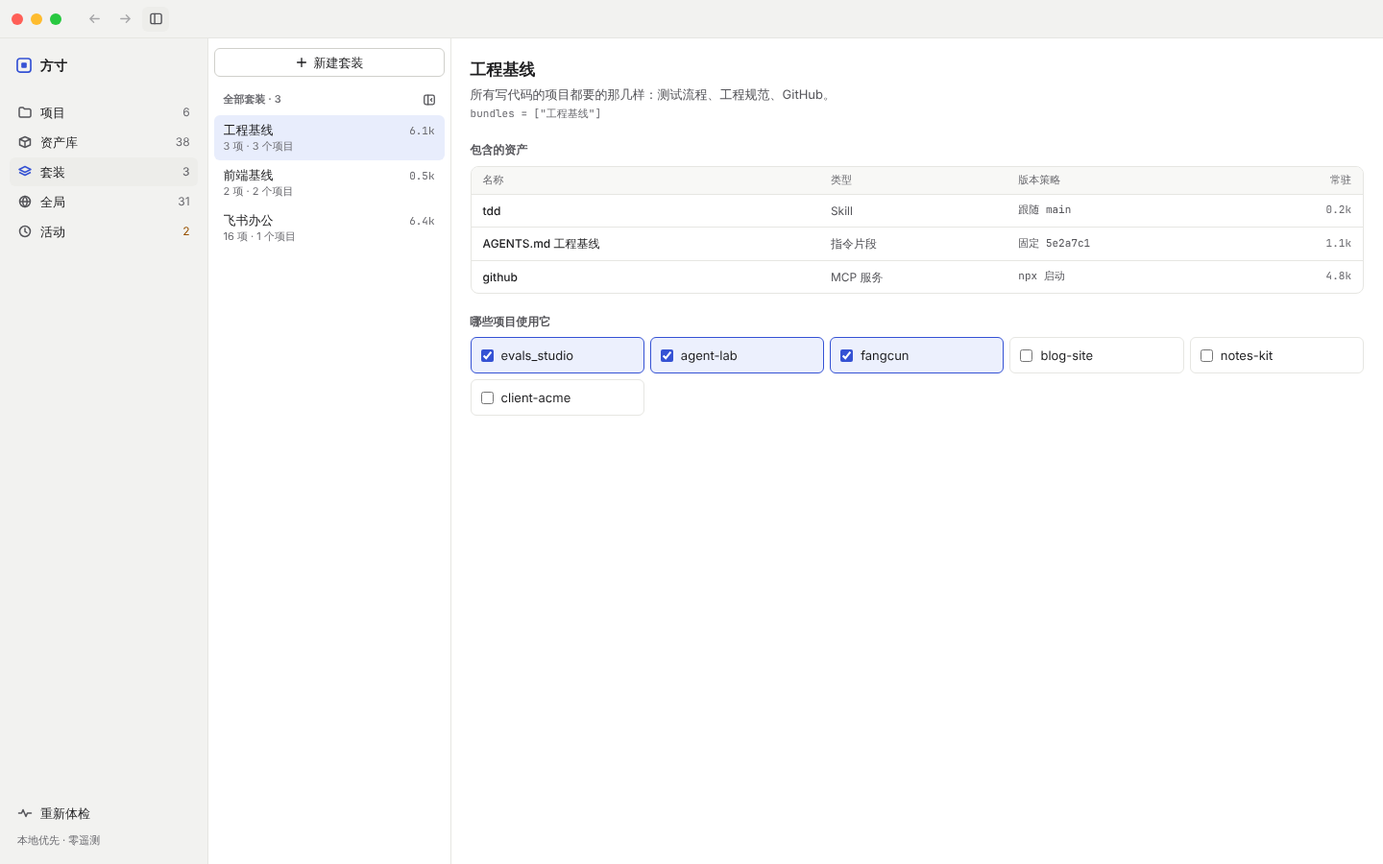
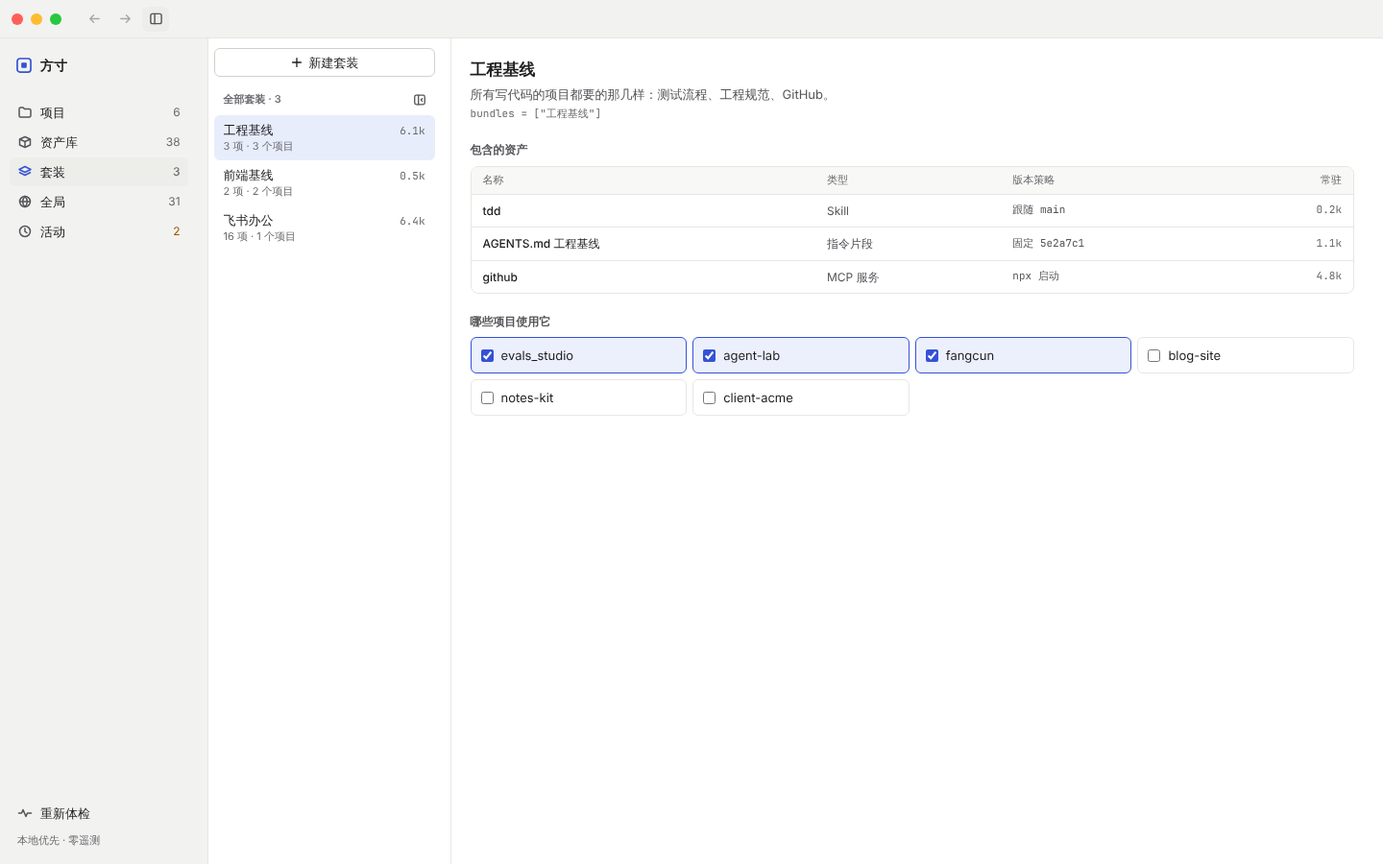
Check every prototype board against section 6 and fix five gaps
Library and Bundles use the shared window shell; the checkup report pauses on
a handled finding before moving on; the activity type column no longer wraps;
the sidebar gets a recent-projects group; 6.7's wireframe uses the same-name
conflict wording. Synced canvas version 1794656963-e22c.

Claude-Session: https://claude.ai/code/session_01CLs9FXfYx86LG6Jt3JnKaR

diff --git a/prototype/project/Bundles.dc.html b/prototype/project/Bundles.dc.html
@@ -28,9 +28,12 @@ body{margin:0}
 .fc-navc .fc-navbtn{margin-left:0}
 .fc-navc a span,.fc-navc>div>div>span{position:absolute;width:1px;height:1px;overflow:hidden;clip:rect(0 0 0 0);white-space:nowrap}
 .fc-navc .fc-navhide{display:none!important}
+.fc-shell{height:100vh;min-height:640px;overflow:hidden}
+.fc-col{overflow-y:auto;min-height:0;overscroll-behavior:contain;scrollbar-width:thin;scrollbar-color:var(--line-strong) transparent;scrollbar-gutter:stable}
+@media (max-width: 900px){.fc-shell{height:auto;overflow:visible;flex-wrap:wrap!important}.fc-split{flex-wrap:wrap!important}.fc-col{overflow:visible}}
 </style>
 </helmet>
-<div class="{{rootClass}}" style="min-height: 900px; display: flex; flex-direction: column; background: var(--bg); color: var(--tx-1); font-family: var(--font); font-size: 13px; line-height: 1.45; -webkit-font-smoothing: antialiased;">
+<div class="{{rootClass}}" style="position: relative; display: flex; flex-direction: column; background: var(--bg); color: var(--tx-1); font-family: var(--font); font-size: 13px; line-height: 1.45; -webkit-font-smoothing: antialiased;">
 
   <!-- 窗口工具栏：贯穿整个窗口顶部 -->
   <div role="toolbar" aria-label="窗口工具栏" style="flex: 0 0 auto; display: flex; align-items: center; gap: 4px; height: 40px; padding: 0 12px; box-sizing: border-box; background: var(--bg-sidebar); border-bottom: 1px solid var(--line);">
@@ -40,8 +43,8 @@ body{margin:0}
     <button type="button" class="fc-h" onClick="{{toggleNav}}" aria-label="{{navLabel}}" aria-expanded="{{navExpanded}}" title="{{navLabel}}" style="{{navBtnStyle}}"><svg width="15" height="15" viewBox="0 0 16 16" fill="none" stroke="currentColor" stroke-width="1.5" stroke-linecap="round" stroke-linejoin="round" aria-hidden="true"><rect x="2" y="2.5" width="12" height="11" rx="2"></rect><path d="M6.5 2.5v11"></path></svg></button>
   </div>
 
-  <div style="flex: 1; display: flex; flex-wrap: wrap;">
-  <nav aria-label="主导航" class="{{navClass}}" style="flex: 1 1 216px; box-sizing: border-box; background: var(--bg-sidebar); border-right: 1px solid var(--line); padding: 12px 10px 16px; display: flex; flex-direction: column; gap: 18px;">
+  <div class="fc-split" style="flex: 1; display: flex; flex-wrap: nowrap; min-height: 0;">
+  <nav aria-label="主导航" class="fc-col {{navClass}}" style="flex: 1 1 216px; box-sizing: border-box; background: var(--bg-sidebar); border-right: 1px solid var(--line); padding: 12px 10px 16px; display: flex; flex-direction: column; gap: 18px;">
     <div style="display: flex; align-items: center; gap: 8px; padding: 2px 6px; height: 28px;">
       <svg width="18" height="18" viewBox="0 0 16 16" fill="none" stroke="currentColor" stroke-width="1.5" aria-hidden="true" style="color: var(--accent);"><rect x="1.75" y="1.75" width="12.5" height="12.5" rx="2.5"></rect><rect x="5.5" y="5.5" width="5" height="5" rx="1" fill="currentColor" stroke="none"></rect></svg>
       <span style="font-weight: 600; font-size: 14px; letter-spacing: .02em;">方寸</span>
@@ -77,10 +80,10 @@ body{margin:0}
     </div>
   </nav>
 
-  <main style="flex: 999 1 640px; min-width: 0; display: flex; flex-direction: column;">
-    <div style="flex: 1; display: flex; flex-wrap: wrap; min-height: 0;">
+  <main style="flex: 999 1 640px; min-width: 0; min-height: 0; display: flex; flex-direction: column;">
+    <div class="fc-split" style="flex: 1; display: flex; flex-wrap: nowrap; min-height: 0;">
       <sc-if value="{{listClosed}}" hint-placeholder-val="{{false}}">
-        <section aria-label="套装列表（已折叠）" style="flex: 0 0 44px; box-sizing: border-box; border-right: 1px solid var(--line); padding: 6px; display: flex; flex-direction: column; align-items: center; gap: 4px;">
+        <section aria-label="套装列表（已折叠）" class="fc-col" style="flex: 0 0 44px; box-sizing: border-box; border-right: 1px solid var(--line); padding: 6px; display: flex; flex-direction: column; align-items: center; gap: 4px;">
           <button type="button" class="fc-h" onClick="{{toggleList}}" aria-label="展开套装列表" aria-expanded="false" style="width: 32px; height: 28px; display: inline-flex; align-items: center; justify-content: center; border: 0; border-radius: 6px; background: transparent; color: var(--tx-2);"><svg width="14" height="14" viewBox="0 0 16 16" fill="none" stroke="currentColor" stroke-width="1.5" stroke-linecap="round" stroke-linejoin="round" aria-hidden="true"><rect x="2" y="2.5" width="12" height="11" rx="2"></rect><path d="M6.5 2.5v11"></path><path d="m9.5 6.5 1.5 1.5-1.5 1.5"></path></svg></button>
           <button type="button" class="fc-h" aria-label="新建套装" title="新建套装" style="width: 32px; height: 28px; display: inline-flex; align-items: center; justify-content: center; border: 0; border-radius: 6px; background: transparent; color: var(--tx-2);"><svg width="14" height="14" viewBox="0 0 16 16" fill="none" stroke="currentColor" stroke-width="1.5" stroke-linecap="round" aria-hidden="true"><path d="M8 3v10M3 8h10"></path></svg></button>
           <span aria-hidden="true" style="width: 20px; height: 1px; background: var(--line); margin: 2px 0;"></span>
@@ -90,7 +93,7 @@ body{margin:0}
         </section>
       </sc-if>
       <sc-if value="{{listOpen}}" hint-placeholder-val="{{true}}">
-      <section aria-label="套装列表" style="flex: 0 1 240px; min-width: 200px; border-right: 1px solid var(--line); padding: 10px 6px 6px;">
+      <section aria-label="套装列表" class="fc-col" style="flex: 0 1 240px; min-width: 200px; border-right: 1px solid var(--line); padding: 10px 6px 6px;">
         <button type="button" class="fc-btn" style="display: flex; align-items: center; justify-content: center; gap: 6px; width: 100%; height: 30px; margin-bottom: 10px; border-radius: 6px; border: 1px solid var(--line-strong); background: var(--bg); color: var(--tx-1);"><svg width="14" height="14" viewBox="0 0 16 16" fill="none" stroke="currentColor" stroke-width="1.5" stroke-linecap="round" aria-hidden="true"><path d="M8 3v10M3 8h10"></path></svg>新建套装</button>
         <div style="display: flex; align-items: center; gap: 6px; height: 28px; padding: 0 2px 0 10px; margin-bottom: 2px;">
           <span style="flex: 1; font-size: 11px; font-weight: 600; color: var(--tx-3);">全部套装 · 3</span>
@@ -108,7 +111,7 @@ body{margin:0}
       </section>
       </sc-if>
 
-      <aside aria-label="套装详情" style="flex: 999 1 460px; min-width: 0; box-sizing: border-box; padding: 20px; display: flex; flex-direction: column; gap: 20px;">
+      <aside aria-label="套装详情" class="fc-col" style="flex: 999 1 460px; min-width: 0; box-sizing: border-box; padding: 20px; display: flex; flex-direction: column; gap: 20px;">
         <div style="display: flex; flex-direction: column; gap: 4px;">
           <h2 style="margin: 0; font-size: 17px; font-weight: 600;">{{d.name}}</h2>
           <span style="color: var(--tx-2);">{{d.blurb}}</span>
@@ -229,7 +232,7 @@ class Component extends DCLogic {
     const LY = [['全局', '每个项目都加载'], ['套装', '你挑选的项目才加载'], ['项目', '只写在本项目清单'], ['个人', '只在你的机器上']];
     const layers = LY.map(([name, desc], i) => ({ name, desc, marks: marks(i),
       style: 'display: flex; align-items: center; gap: 10px; padding: 6px 10px; border-radius: 6px; ' + (i === 1 ? 'background: var(--bg); border: 1px solid var(--accent); color: var(--tx-1);' : 'border: 1px solid transparent; color: var(--tx-2);') }));
-    return { rootClass: 'fc' + (dark ? ' dark' : ''), bundles, d, layers, applied: s.applied,
+    return { rootClass: 'fc fc-shell' + (dark ? ' dark' : ''), bundles, d, layers, applied: s.applied,
       navClass: s.navC ? 'fc-navc' : '', navLabel: s.navC ? '展开侧栏' : '折叠侧栏', navExpanded: !s.navC, toggleNav: () => set({ navC: !s.navC }),
       navBtnStyle: 'width: 28px; height: 26px; display: inline-flex; align-items: center; justify-content: center; border: 0; border-radius: 6px; color: var(--tx-2); background: ' + (s.navC ? 'transparent' : 'var(--bg-hover)') + ';',
       listOpen: s.listOpen, listClosed: !s.listOpen, toggleList: () => set({ listOpen: !s.listOpen }),

diff --git a/prototype/project/Library.dc.html b/prototype/project/Library.dc.html
@@ -28,9 +28,12 @@ body{margin:0}
 .fc-navc a span,.fc-navc>div>div>span{position:absolute;width:1px;height:1px;overflow:hidden;clip:rect(0 0 0 0);white-space:nowrap}
 .fc-navc .fc-navhide{display:none!important}
 .fc-hidden{display:none!important}
+.fc-shell{height:100vh;min-height:640px;overflow:hidden}
+.fc-col{overflow-y:auto;min-height:0;overscroll-behavior:contain;scrollbar-width:thin;scrollbar-color:var(--line-strong) transparent;scrollbar-gutter:stable}
+@media (max-width: 900px){.fc-shell{height:auto;overflow:visible;flex-wrap:wrap!important}.fc-split{flex-wrap:wrap!important}.fc-col{overflow:visible}}
 </style>
 </helmet>
-<div class="{{rootClass}}" style="min-height: 900px; display: flex; flex-direction: column; background: var(--bg); color: var(--tx-1); font-family: var(--font); font-size: 13px; line-height: 1.45; -webkit-font-smoothing: antialiased;">
+<div class="{{rootClass}}" style="position: relative; display: flex; flex-direction: column; background: var(--bg); color: var(--tx-1); font-family: var(--font); font-size: 13px; line-height: 1.45; -webkit-font-smoothing: antialiased;">
 
   <!-- 窗口工具栏：贯穿整个窗口顶部 -->
   <div role="toolbar" aria-label="窗口工具栏" style="flex: 0 0 auto; display: flex; align-items: center; gap: 4px; height: 40px; padding: 0 12px; box-sizing: border-box; background: var(--bg-sidebar); border-bottom: 1px solid var(--line);">
@@ -40,8 +43,8 @@ body{margin:0}
     <button type="button" class="fc-h" onClick="{{toggleNav}}" aria-label="{{navLabel}}" aria-expanded="{{navExpanded}}" title="{{navLabel}}" style="{{navBtnStyle}}"><svg width="15" height="15" viewBox="0 0 16 16" fill="none" stroke="currentColor" stroke-width="1.5" stroke-linecap="round" stroke-linejoin="round" aria-hidden="true"><rect x="2" y="2.5" width="12" height="11" rx="2"></rect><path d="M6.5 2.5v11"></path></svg></button>
   </div>
 
-  <div style="flex: 1; display: flex; flex-wrap: wrap;">
-  <nav aria-label="主导航" class="{{navClass}}" style="flex: 1 1 216px; box-sizing: border-box; background: var(--bg-sidebar); border-right: 1px solid var(--line); padding: 12px 10px 16px; display: flex; flex-direction: column; gap: 18px;">
+  <div class="fc-split" style="flex: 1; display: flex; flex-wrap: nowrap; min-height: 0;">
+  <nav aria-label="主导航" class="fc-col {{navClass}}" style="flex: 1 1 216px; box-sizing: border-box; background: var(--bg-sidebar); border-right: 1px solid var(--line); padding: 12px 10px 16px; display: flex; flex-direction: column; gap: 18px;">
     <div style="display: flex; align-items: center; gap: 8px; padding: 2px 6px; height: 28px;">
       <svg width="18" height="18" viewBox="0 0 16 16" fill="none" stroke="currentColor" stroke-width="1.5" aria-hidden="true" style="color: var(--accent);"><rect x="1.75" y="1.75" width="12.5" height="12.5" rx="2.5"></rect><rect x="5.5" y="5.5" width="5" height="5" rx="1" fill="currentColor" stroke="none"></rect></svg>
       <span style="font-weight: 600; font-size: 14px; letter-spacing: .02em;">方寸</span>
@@ -77,8 +80,8 @@ body{margin:0}
     </div>
   </nav>
 
-  <main style="flex: 999 1 640px; min-width: 0; display: flex; flex-wrap: wrap; align-content: flex-start;">
-    <section aria-label="资产列表" style="flex: 999 1 420px; min-width: 0; display: flex; flex-direction: column;">
+  <main class="fc-split" style="flex: 999 1 640px; min-width: 0; min-height: 0; display: flex; flex-wrap: nowrap;">
+    <section aria-label="资产列表" class="fc-col" style="flex: 999 1 420px; min-width: 0; display: flex; flex-direction: column;">
       <header style="display: flex; flex-wrap: wrap; align-items: center; gap: 12px; padding: 12px 20px; border-bottom: 1px solid var(--line);">
         <h1 style="margin: 0; font-size: 17px; font-weight: 600; flex: 1 1 auto;">资产库</h1>
         <span style="color: var(--tx-3); font-size: 12px;">每项资产本机只有一份正本 · 多版本并存</span>
@@ -127,7 +130,7 @@ body{margin:0}
       </sc-if>
     </section>
 
-    <aside aria-label="资产详情" class="{{inspClass}}" style="flex: 1 1 380px; box-sizing: border-box; min-height: 900px; border-left: 1px solid var(--line); background: var(--bg-subtle); padding: 18px 18px 24px; display: flex; flex-direction: column; gap: 16px;">
+    <aside aria-label="资产详情" class="fc-col {{inspClass}}" style="flex: 1 1 380px; box-sizing: border-box; border-left: 1px solid var(--line); background: var(--bg-subtle); padding: 18px 18px 24px; display: flex; flex-direction: column; gap: 16px;">
       <!-- 与项目页检查器共用同一套结构：类型 · 名称 · 状态徽标 → 字段表 → 分区 -->
       <div style="position: relative; display: flex; flex-direction: column; gap: 6px; padding-right: 32px;">
         <button type="button" class="fc-h" onClick="{{closeInsp}}" aria-label="关闭详情" title="关闭详情" style="position: absolute; top: -6px; right: -6px; width: 28px; height: 28px; display: inline-flex; align-items: center; justify-content: center; border: 0; border-radius: 6px; background: transparent; color: var(--tx-2);"><svg width="14" height="14" viewBox="0 0 16 16" fill="none" stroke="currentColor" stroke-width="1.5" stroke-linecap="round" aria-hidden="true"><path d="M4 4l8 8M12 4l-8 8"></path></svg></button>
@@ -274,7 +277,7 @@ class Component extends DCLogic {
       projects: cur.projects.map((p, i) => Object.assign({}, p, { rowStyle: rowS(i, false) })),
       acts: (ACTS[cur.id] || []).map(([when, text]) => ({ when, text })),
       isSkillB: !!cur.isSkillB, isUnknown: !!cur.isUnknown };
-    return { rootClass: 'fc' + (dark ? ' dark' : ''), filters, assets, d, adopt: () => set({ adopted: true }),
+    return { rootClass: 'fc fc-shell' + (dark ? ' dark' : ''), filters, assets, d, adopt: () => set({ adopted: true }),
       navClass: s.navC ? 'fc-navc' : '', navLabel: s.navC ? '展开侧栏' : '折叠侧栏', navExpanded: !s.navC, toggleNav: () => set({ navC: !s.navC }),
       navBtnStyle: 'width: 28px; height: 26px; display: inline-flex; align-items: center; justify-content: center; border: 0; border-radius: 6px; color: var(--tx-2); background: ' + (s.navC ? 'transparent' : 'var(--bg-hover)') + ';',
       inspClass: s.inspOpen ? '' : 'fc-hidden', closeInsp: () => set({ inspOpen: false }),

diff --git a/prototype/project/Activity.dc.html b/prototype/project/Activity.dc.html
@@ -113,7 +113,7 @@ body{margin:0}
         </div>
 
         <div style="display: flex; align-items: center; gap: 12px; padding: 8px 20px 2px; font-size: 11px; color: var(--tx-3); font-weight: 500;">
-          <span style="flex: 0 0 44px;">时间</span><span style="flex: 0 0 44px;">类型</span><span style="flex: 1 1 220px;">事件 · 项目</span><span style="flex: 0 0 56px;">快照</span><span style="flex: 0 0 84px;">状态</span>
+          <span style="flex: 0 0 44px;">时间</span><span style="flex: 0 0 52px;">类型</span><span style="flex: 1 1 220px;">事件 · 项目</span><span style="flex: 0 0 56px;">快照</span><span style="flex: 0 0 84px;">状态</span>
         </div>
 
         <!-- 待处理：与时间线同一行式，只在分组标题上用橙色提示 -->
@@ -123,7 +123,7 @@ body{margin:0}
             <sc-for list="{{pendingRows}}" as="e" hint-placeholder-count="2">
               <button type="button" class="fc-h" onClick="{{e.pick}}" aria-pressed="{{e.on}}" style="{{e.rowStyle}}">
                 <span style="flex: 0 0 44px; font-family: var(--mono); font-size: 11px; color: var(--tx-3);">{{e.time}}</span>
-                <span style="flex: 0 0 44px;"><span style="font-size: 11px; padding: 1px 6px; border-radius: 4px; background: var(--bg-hover); color: var(--tx-2);">{{e.typeLabel}}</span></span>
+                <span style="flex: 0 0 52px;"><span style="white-space: nowrap; font-size: 11px; padding: 1px 6px; border-radius: 4px; background: var(--bg-hover); color: var(--tx-2);">{{e.typeLabel}}</span></span>
                 <span style="flex: 1 1 220px; min-width: 0; display: flex; flex-direction: column;">
                   <span style="{{e.titleStyle}}">{{e.title}}</span>
                   <span style="font-family: var(--mono); font-size: 11px; color: var(--tx-3); white-space: nowrap; overflow: hidden; text-overflow: ellipsis;">{{e.meta}}</span>
@@ -140,7 +140,7 @@ body{margin:0}
             <sc-for list="{{g.items}}" as="e" hint-placeholder-count="3">
               <button type="button" class="fc-h" onClick="{{e.pick}}" aria-pressed="{{e.on}}" style="{{e.rowStyle}}">
                 <span style="flex: 0 0 44px; font-family: var(--mono); font-size: 11px; color: var(--tx-3);">{{e.time}}</span>
-                <span style="flex: 0 0 44px;"><span style="font-size: 11px; padding: 1px 6px; border-radius: 4px; background: var(--bg-hover); color: var(--tx-2);">{{e.typeLabel}}</span></span>
+                <span style="flex: 0 0 52px;"><span style="white-space: nowrap; font-size: 11px; padding: 1px 6px; border-radius: 4px; background: var(--bg-hover); color: var(--tx-2);">{{e.typeLabel}}</span></span>
                 <span style="flex: 1 1 220px; min-width: 0; display: flex; flex-direction: column;">
                   <span style="{{e.titleStyle}}">{{e.title}}</span>
                   <span style="font-family: var(--mono); font-size: 11px; color: var(--tx-3); white-space: nowrap; overflow: hidden; text-overflow: ellipsis;">{{e.meta}}</span>

diff --git a/prototype/project/Main.dc.html b/prototype/project/Main.dc.html
@@ -85,6 +85,14 @@ body{margin:0}
           <span style="font-size: 11px; color: var(--tx-3);">{{p.note}}</span>
         </div>
       </sc-for>
+      <div style="padding: 12px 8px 4px; font-size: 11px; font-weight: 600; color: var(--tx-3);">近 30 天的项目</div>
+      <sc-for list="{{recentProjects}}" as="p" hint-placeholder-count="1">
+        <div style="{{p.style}}">
+          <span aria-hidden="true" style="{{p.dot}}"></span>
+          <span style="flex: 1; min-width: 0; overflow: hidden; text-overflow: ellipsis; white-space: nowrap;">{{p.name}}</span>
+          <span style="font-size: 11px; color: var(--tx-3);">{{p.note}}</span>
+        </div>
+      </sc-for>
     </div>
 
     <div style="margin-top: auto; display: flex; flex-direction: column; gap: 6px;">
@@ -807,6 +815,10 @@ class Component extends DCLogic {
     const PROJ = [
       ['evals_studio', 'warn', '漂移'], ['agent-lab', 'ok', ''], ['fangcun', 'info', '可更新'], ['blog-site', 'ok', ''], ['notes-kit', 'ok', ''], ['client-acme', 'ok', '']
     ];
+    const RECENT = [['luyao-skills', '未登记']];
+    const recentProjects = RECENT.map(([name, note]) => ({ name, note,
+      dot: 'width: 7px; height: 7px; border-radius: 4px; flex: none; box-sizing: border-box; border: 1px solid var(--muted-dot);',
+      style: 'display: flex; align-items: center; gap: 8px; height: 28px; padding: 0 8px; border-radius: 6px; color: var(--tx-2);' }));
     const projects = PROJ.map(([name, tone, note], i) => {
       const t = name === 'evals_studio' && s.drift ? 'ok' : tone;
       return { name, note: name === 'evals_studio' && s.drift ? '' : note,
@@ -839,7 +851,7 @@ class Component extends DCLogic {
       navClass: s.navC ? 'fc-navc' : '', navLabel: s.navC ? '展开侧栏' : '折叠侧栏', navExpanded: !s.navC, toggleNav: () => set({ navC: !s.navC }),
       navBtnStyle: 'width: 28px; height: 26px; display: inline-flex; align-items: center; justify-content: center; border: 0; border-radius: 6px; color: var(--tx-2); background: ' + (s.navC ? 'transparent' : 'var(--bg-hover)') + ';',
       inspClass: (s.inspOpen || s.sel !== s.closedSel) ? '' : 'fc-hidden', closeInsp: () => set({ inspOpen: false, closedSel: s.sel }),
-      projects, tools, tabs, groups, budget, sel, driftOpts, history, manifest, results, mfiles, mf, mviews,
+      projects, recentProjects, tools, tabs, groups, budget, sel, driftOpts, history, manifest, results, mfiles, mf, mviews,
       mIsTable: s.mview === 'table', mIsSrc: s.mview === 'src',
       plan: planOut, planCount,
       isEffective: s.tab === 'effective', isManifest: s.tab === 'manifest', isHistory: s.tab === 'history',

diff --git a/prototype/project/Checkup.dc.html b/prototype/project/Checkup.dc.html
@@ -222,7 +222,8 @@ class Component extends DCLogic {
         rowStyle: 'display: flex; flex-wrap: wrap; align-items: center; gap: 4px 8px; padding: 6px 10px; font-size: 12px;' + (i > 0 ? ' border-top: 1px solid var(--line);' : ''),
         cStyle: 'flex: 0 0 auto; color: ' + (l.tone ? TONE[l.tone][0] : 'var(--tx-2)') + ';' + (l.tone ? ' font-weight: 500;' : '') })),
       isOpen: !cDone, isDone: cDone,
-      apply: () => { const nd = Object.assign({}, s.done); nd[cur.id] = true; const next = F.find((x) => !nd[x.id]); set({ done: nd, sel: next ? next.id : cur.id }); },
+      apply: () => { const nd = Object.assign({}, s.done); nd[cur.id] = true; const next = F.find((x) => !nd[x.id]); set({ done: nd, sel: cur.id });
+        if (next) setTimeout(() => { const st = this.state || {}; if (st.done && st.done[cur.id] && st.sel === cur.id) this.setState({ sel: next.id }); }, 1500); },
       undo: () => { const u = Object.assign({}, s.done); delete u[cur.id]; set({ done: u }); } };
     const countable = F.filter((f) => f.id !== 'secret');
     const doneCount = countable.filter((f) => s.done[f.id]).length;

diff --git a/docs/product-design.md b/docs/product-design.md
@@ -273,7 +273,7 @@ fangcun why <资产>             # 解释它为何生效、来自哪一层。--g
 
 ## 6. 关键界面与体验流程
 
-本节是界面的要求。高保真原型按本节画，两者不一致时以本节为准，改原型。原型有七张画板：设计系统「墨格」、项目页、体检报告、资产库、套装、全局、活动，源文件在仓库的 `prototype/`。最近一次核对是 2026-11-14，画布版本 1794610127-a083，没有已知不一致。
+本节是界面的要求。高保真原型按本节画，两者不一致时以本节为准，改原型。原型有七张画板：设计系统「墨格」、项目页、体检报告、资产库、套装、全局、活动，源文件在仓库的 `prototype/`。最近一次核对是 2026-11-14，画布版本 1794656963-e22c，七张画板逐张对照本节。对照出的五处（BACKLOG D-24 至 D-28）当天已改完，没有已知不一致。
 
 本节早期的写法是对照原型整理出来的（11-13、11-14 的导出件已删除，可从 git 历史取回）。2026-11-14 起顺序反过来：先改本节并经人确认，再改原型，再实现。
 
@@ -289,7 +289,7 @@ fangcun why <资产>             # 解释它为何生效、来自哪一层。--g
 **窗口骨架**，所有页面共用：
 
 - **整窗工具栏**：高 40px，贯穿窗口顶部。从左到右依次是窗口按钮、后退与前进、侧栏开关。窗口控件只出现在这里，侧栏折叠与否都不影响左上角。
-- **侧栏**：顶部是「方寸」标识，下面五个导航项：**项目**、**资产库**、**套装**、**全局**、**活动**。前四项旁的灰色数字是数量，「活动」旁的橙色数字是待处理数。项目页下方列出已登记项目及其状态点。M0 没有登记，列的是近 30 天会话记录里出现过的工作目录，往上归到 git 根目录（主目录本身、临时目录、主目录下的点目录不算），分组标题写「近 30 天的项目」；M1 起登记的项目并进来。底部固定「重新体检」，下面一行小字「本地优先 · 零遥测」。侧栏可折叠为 56px 宽的图标栏，此时只保留导航图标。
+- **侧栏**：顶部是「方寸」标识，下面五个导航项：**项目**、**资产库**、**套装**、**全局**、**活动**。前四项旁的灰色数字是数量，「活动」旁的橙色数字是待处理数。项目页下方列出已登记项目及其状态点。M0 没有登记，列的是近 30 天会话记录里出现过的工作目录，往上归到 git 根目录（主目录本身、临时目录、主目录下的点目录不算），分组标题写「近 30 天的项目」。M1 起分两组：上面是「已登记项目」，下面「近 30 天的项目」只列还没登记的目录，标「未登记」。底部固定「重新体检」，下面一行小字「本地优先 · 零遥测」。侧栏可折叠为 56px 宽的图标栏，此时只保留导航图标。
 - **列表与检查器**：选中列表中的一行，右侧检查器显示详情。检查器右上角有 × 关闭按钮，关闭后列表占满宽度；再点任意一行即重新打开。
 - **分栏独立滚动**：窗口固定为一屏高，侧栏、列表、检查器各自滚动，滚动一栏时其他栏不动。窗口窄于 900px 时，各栏改为上下堆叠，整页滚动。
 
@@ -568,7 +568,7 @@ fangcun why <资产>             # 解释它为何生效、来自哪一层。--g
                 agent-lab · 桌面应用                                    │ [回滚到此之前…]
  13:40  升级    升级 skill-b v1.0.0 → v2.1.0（划线）    #89   ● 已回滚  │
                 agent-lab · 桌面应用                                    │
- 10:10  同步    全局层：frontend-design 被 2 个项目覆盖 —     ● 已记录  │
+ 10:10  同步    全局层：frontend-design 与 2 个项目同名冲突 — ● 已记录 │
                 全局层 · 文件监听                                       │
 ```
 
@@ -913,6 +913,13 @@ mirror    = ["CLAUDE.md"]        # 生成为对正本的引用
 | 项目预算（D-22） | `fangcun.toml` 的 `[project]` 写 `budget`，不写时 20k，全局页用同一个默认值（7.4） |
 
 其中 6.3、6.6 有三处原型当时没跟上，2026-11-14 已在画布里补上：项目页 frontend-design 一行改为项目层被全局层覆盖；全局页 frontend-design 改为「同名冲突 2 处」、不划线；全局页 CLAUDE.md 改为「全文加载」、用到它一栏写「—」。
+
+**原型全量对照后定的两件**，2026-11-14 人选了推荐项。
+
+| 事项 | 结论 |
+|---|---|
+| 侧栏的项目分组（D-28） | M0 只有「近 30 天的项目」一组。M1 起分两组：「已登记项目」在上，「近 30 天的项目」在下，只列还没登记的目录（6.1） |
+| 活动页线框图里的同名记录（D-27） | 按 4.3 改成「与 2 个项目同名冲突」（6.7） |
 
 ### 9.4 建议的下一步
 

diff --git a/docs/STATUS.md b/docs/STATUS.md
@@ -6,7 +6,7 @@
 
 M0（透视版，只读）的功能全部实现。BACKLOG 的 M0-02 至 M0-11、M0-13 至 M0-21 完成，M0-12 按人给的截图改了窗口按钮位置，待人再看一眼。本机实测：`fangcun doctor` 约 7 秒，零配置，只写 `~/.fangcun/journal`。
 
-人已定 D-15、D-18 至 D-22（都是推荐项，D-19 补问了两件），设计文档已改并随 PR #5 合进 main。代码跟上的三件（M0-19 至 M0-21）随 PR #6 合进 main。原型的三处（D-23）已由 Agent 在画布里改好并同步（版本 1794656299-24d3），示例数据还没跟上（M0-22）。
+人已定 D-15、D-18 至 D-22（都是推荐项，D-19 补问了两件），设计文档已改并随 PR #5 合进 main。代码跟上的三件（M0-19 至 M0-21）随 PR #6 合进 main。原型的三处（D-23）已由 Agent 在画布里改好；随后七张画板逐张对照第 6 节，发现五处（D-24 至 D-28），人定了两件，全部改完并同步（版本 1794656963-e22c）。示例数据还没跟上（M0-22）。
 
 - **能用的**：
   - 命令行：`pnpm cli -- doctor`、`status`、`why <资产> [--global]`、`log`。写入命令仍返回「当前是只读模式」。
@@ -14,14 +14,14 @@ M0（透视版，只读）的功能全部实现。BACKLOG 的 M0-02 至 M0-11、
   - 适配器：Claude Code、Codex 完整支持；Cursor、Copilot CLI、Gemini CLI、opencode、Windsurf、Trae 只读扫描。体检扫 8 个工具。
   - 本机实测：8 个项目、39 项资产；18 个 lark-* skill 只有 Xuanji 用过，10 个全局 skill 近 30 天没人用，Claude Code 只读到 31 个全局 skill 里的 16 个，`~/.agents/.skill-lock.json` 07-05 后没更新。
 - **检查**：`pnpm check` 全过（Rust 库 87 个测试，加两组适配器回归样例；前端 12 个）。四个页面用示例数据和原型截图对过，也用本机真实数据截图看过（`pnpm screens --snapshot`）。M0-19 至 M0-21 只改了内核和两处文案，没有重新截图。
-- **原型**：`prototype/` 同步到画布版本 1794656299-24d3，`check.js` 七张画板全部通过。项目页 frontend-design 项目层被全局层遮蔽；全局页 frontend-design「同名冲突 2 处」，CLAUDE.md、AGENTS.md「全文加载」。Agent 自己定的细节记在 DECISIONS「原型跟上 D-19、D-21 时的取舍」，待人看。
+- **原型**：`prototype/` 同步到画布版本 1794656963-e22c，`check.js` 七张画板全部通过，和第 6 节没有已知不一致。这一轮改了：项目页 frontend-design 项目层被全局层遮蔽、侧栏加「近 30 天的项目」组；全局页 frontend-design「同名冲突 2 处」，CLAUDE.md、AGENTS.md「全文加载」；资产库、套装用统一窗口骨架；体检处理后停留 1.5 秒再跳；活动页类型列加宽。Agent 自己定的细节记在 DECISIONS 两条 11-14 的原型记录里，待人看。
 - **git**：PR #5、#6、#7 都已合并到 main。原型这次的改动在分支 `claude/nifty-rubin-jc7pvh`，已推送，没开 PR。
 
 ## 下一步
 
 1. **M0-12**：人用 `pnpm dev` 再看一眼左上角的红黄绿按钮。人给的截图（2026-11-14）里按钮中心比后退、侧栏按钮高约 4.5pt，`apps/desktop/src-tauri/tauri.conf.json` 的 `trafficLightPosition.y` 已从 13 改成 17.5（按 tao 的算法，按钮中心约在 y + 1.75pt，工具栏里其他按钮的中心在 19.25pt）。还偏就按同样算法微调。
-2. **M0-22**：示例数据跟上新原型。改 `apps/desktop/src/ipc/fixtures/main.ts`、`global.ts`、`activity.ts`，再 `pnpm screens main global activity` 和 `prototype/screens/` 对比。
-3. 人看一眼画布上 Agent 补的细节（DECISIONS「原型跟上 D-19、D-21 时的取舍」）。
+2. **M0-22**：示例数据跟上新原型。改 `apps/desktop/src/ipc/fixtures/main.ts`、`global.ts`、`activity.ts`，再 `pnpm screens main global activity` 和 `prototype/screens/` 对比。应用侧栏的分组标题 M0 已是「近 30 天的项目」，不用改。
+3. 人看一眼画布上 Agent 补的细节（DECISIONS「原型跟上 D-19、D-21 时的取舍」「原型全量对照」）。
 4. 然后进 M1。先补 M1-pre-01 至 M1-pre-04。M1-01、M1-02 已定要做。
 
 ## 卡在哪

diff --git a/docs/BACKLOG.md b/docs/BACKLOG.md
@@ -22,6 +22,11 @@
 - [x] D-12 原型源文件进仓库：`prototype/` 镜像新画布，`AGENTS.md` 写明读法与同步步骤。2026-11-14 完成
 - [x] D-11 人看一遍新画布，确认 Agent 补的设计：回滚冲突提示、快照过期说明、密钥记录的检查器、受影响项目默认不勾选、新增的两条示例记录。确认后可删掉画布上的说明便签。出处：DECISIONS 2026-11-14「按 9.3 补改原型」。2026-11-14 人说「暂时按照你的方案」，六件都按现状；便签已删，原型已同步
 - [x] D-23 原型跟上 D-19、D-21：项目页 frontend-design 一行改为项目层、状态「被全局层同名项覆盖」；全局页 frontend-design 改为「同名冲突 2 处」、不划线；全局页 CLAUDE.md 改为「全文加载」、用到它一栏写「—」；全局页状态说明补「同名冲突」「全文加载」。要人在画布里改，或让 Agent 在云端会话里改再同步。出处：9.3 末尾。2026-11-14 完成：Agent 在画布里改（版本 1794656299-24d3）并同步。全局页画板没有单独的状态说明，「同名冲突」「全文加载」的说明在文档 6.6 状态表里，原型里体现在行和检查器上。顺带改了活动页 g1 记录和设计系统的示例行，取舍见 DECISIONS
+- [x] D-24 资产库、套装两张画板没用统一窗口骨架：根节点没有 `fc-shell`，窗口不是固定一屏高，三栏不各自滚动，窄于 900px 不堆叠。资产库检查器 `min-height: 900px` 把整页撑到 940px。出处：6.1「分栏独立滚动」。2026-11-14 完成：两页根节点加 `fc-shell`，三栏加 `fc-col`，补窄屏堆叠；资产库整页回到 900px
+- [x] D-25 体检报告处理一项后立刻跳到下一条，检查器不显示「已处理 · 已留快照」和撤销，只有点回那一条才看得到。文档要先显示再自动跳。出处：6.2。2026-11-14 完成：处理后停在这一条，显示「已处理 · 已留快照」和撤销，1.5 秒后跳到下一条；中途撤销或点了别的就不跳
+- [x] D-26 活动页「可更新」的类型标签在 44px 宽的类型列里折成两行。出处：6.7、6.10。2026-11-14 完成：类型列 44px → 52px，标签不折行
+- [x] D-27 文档 6.7 线框图仍写「全局层：frontend-design 被 2 个项目覆盖」，与 4.3、6.6 的「同名冲突」相反；原型已改成「与 2 个项目同名冲突」。要人定是否改线框图。出处：6.7、D-19。2026-11-14 人选推荐项：线框图改成「与 2 个项目同名冲突」，9.3 已记
+- [x] D-28 侧栏分组标题：原型项目页与设计系统写「已登记项目」，文档 6.1 写 M0 是「近 30 天的项目」、M1 起登记的项目并进来，没说并进来后标题叫什么。要人定。出处：6.1、D-18。2026-11-14 人选推荐项：M1 起分「已登记项目」「近 30 天的项目」两组，后者只列未登记的目录。6.1、9.3 已改；原型项目页侧栏加了第二组，示例是 luyao-skills（取自体检页已有的仓库名）
 
 ## 要人定
 

diff --git a/docs/DECISIONS.md b/docs/DECISIONS.md
@@ -8,6 +8,15 @@
 
 ---
 
+## 2026-11-14 原型全量对照
+
+- **人定**：问「原型都改完了么」，Agent 提出逐张对照后人答「OK」。对照结果三问都选推荐项：原型三处「三处都改并同步（推荐）」；6.7 线框图「改成『同名冲突』（推荐）」；侧栏标题「统一叫『项目』分两组（推荐）」，即 M0 只有「近 30 天的项目」，M1 起「已登记项目」在上、「近 30 天的项目」在下只列未登记的目录。其余选项：只改骨架和折行 / 先不改；换一个 MCP 的例子 / 不改；始终叫「近 30 天的项目」/ M1 起改叫「已登记项目」。
+- **Agent 定，可逆**：
+  - 体检处理后在这一条停 1.5 秒再跳；这段时间里撤销或点了别的就不跳。文档只写「然后自动跳到下一条」。
+  - 侧栏第二组的示例用 `luyao-skills`，取自体检页已有的仓库名，不另编数据；圆点用空心灰点，旁边写「未登记」。
+  - 项目页预算条 MCP 有 4.8k，不算不一致：画的是测量过（M1-01）之后的样子，6.3 写的是没测量时的样子。
+- 影响：原型 Library、Bundles、Checkup、Activity、Main；设计文档 6.1、6.7、9.3、第 6 节开头。
+
 ## 2026-11-14 原型跟上 D-19、D-21 时的取舍
 
 - **人定**：原话「参考最新产品文档，按照要求更新原型 https://claude.ai/artifact/WAK5PGWGuUmNNAYS8hFcXq 。并且同步」。

diff --git a/docs/LOG.md b/docs/LOG.md
@@ -4,6 +4,12 @@
 
 ---
 
+## 2026-11-14 原型全量对照第 6 节，改五处并同步到 1794656963-e22c
+
+- 人让 Agent 把七张画板逐张对照设计文档。原型不符合文档三处：资产库、套装没用统一窗口骨架；体检处理后不停留就跳；活动页「可更新」标签折行。文档自己不一致一处（6.7 线框图的同名记录），没写到一处（侧栏分组标题）。
+- 人五件都选推荐项。三处原型在画布里改；6.1、6.7、9.3 按结论改；项目页侧栏加「近 30 天的项目」组。
+- `check.js` 全部通过，体检停留、窄屏堆叠用 Playwright 点过。留下的：M0-22；M0-12。
+
 ## 2026-11-14 原型跟上 D-19、D-21（D-23），同步到版本 1794656299-24d3
 
 - 人让 Agent 按最新文档改原型并同步。改前画布版本 1794639379-d3b9，内容与仓库一致。

diff --git a/prototype/README.md b/prototype/README.md
@@ -25,7 +25,7 @@ python3 -m http.server 8000
 | 项 | 值 |
 | --- | --- |
 | 画布 | https://claude.ai/artifact/WAK5PGWGuUmNNAYS8hFcXq |
-| 版本 | 1794656299-24d3 |
+| 版本 | 1794656963-e22c |
 | 同步于 | 2026-11-14 |
 
 ## 画板
